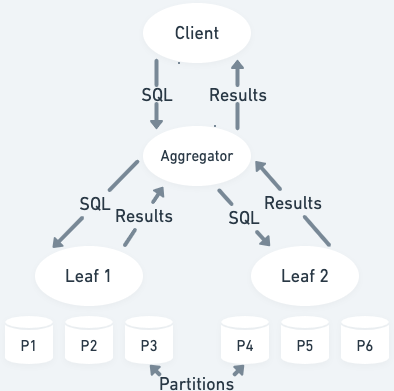
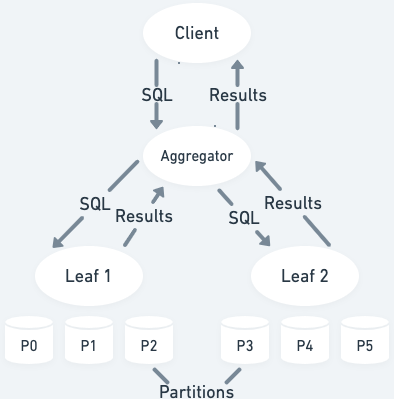
Continue shard key chapter

diff --git a/book.md b/book.md
@@ -1,4 +1,4 @@
-% The Little SingleStore Book
+% The Little SingleStore Book v7.1
 % Albert Vernon
 % November 2020
 
@@ -16,8 +16,8 @@ In this chapter, I introduce the SingleStore DB product, describe how it works, 
 
 Our customers love SingleStore DB becasue of the three S's, which are speed, scale, and SQL.
 
-* **Speed:** because of its distributed architecture, query compilation, and massive parallelism, SingleStore DB can give 10X or better performance at $\frac{1}{3}$ the cost compared to other database systems.
-* **Scale:** it is easy to add more nodes to increase storage or computational capacity to your SingleStore DB cluster with a few commands.
+* **Speed:** because of its distributed architecture, query compilation, and massive parallelism, SingleStore DB can give better performance at a fraction of the cost of other database systems.
+* **Scale:** with a few commands you can add nodes to your SingleStore DB cluster to increase storage or computational capacity.
 * **SQL:** SingleStore DB uses the query language that your database developers already know. It is also compatible with the MySQL wire protocol, so it is often possible to reuse applications, tools, and drivers.
 
 ## Aggregators and Leaves
@@ -45,7 +45,7 @@ A database partition is a container that holds a subset of the rows of the table
 When you create a database, you can specify how many partitions it has like this:
 
 ```sql
-create database mycompany partitions=8
+create database mycompany partitions = 6
 ```
 
 If you omit the `partitions` clause, then SingleStore DB creates your database with the default number of partitions. The number of database partitions has performance implications, especially for concurrency. I discuss this in the Query Tuning chapter.
@@ -61,7 +61,7 @@ When you create a table in SingleStore DB, you can specify one or more columns t
 
 As you insert data into a table, the aggregator calculates where to store each row using its shard key value. This calculation is repeatable, which means two rows with the same shard key value always go to the same partition, even if the rows belong to different tables. This has performance implications when joining tables, which I discuss in the Query Tuning chapter.
 
-If you specify a multi-column shard key, the aggregator concatenates the values of the shard key columns and then does the calculation. As an example, consider this scenario:
+If you specify a multi-column shard key, the aggregator concatenates the values of the shard key columns and then does the calculation. Consider this example:
 
 ```sql
 create table employees (
@@ -69,7 +69,7 @@ create table employees (
   last_name text,
   shard key (last_name, first_name));
 
-insert into employees values ('John', 'Smith);
+insert into employees values ('John', 'Smith');
 ```
 
 Because `employees` has a compound shard key, the shard key value for the row is `'SmithJohn'`. Notice that the order of the columns in the `shard key` clause is significant.
@@ -83,4 +83,75 @@ When you create a table, the following scenarios are possible:
 After you create a table, you cannot alter the shard key. If you change your mind, you have these options:
 
 * Back up the table, drop the table, then re-create it with a different shard key.
-* Create at new table with a different shard key then copy the data with a statement to this: `insert into _____ select * from _____`
+* Create a new table with a different shard key then copy the data with a statement like this: `insert into _____ select * from _____`
+
+Consider this example that makes tables named `foo` and `bar` and inserts sample data:
+
+```sql
+create database testdb partitions = 6;
+use testdb;
+
+create table foo (
+  a int,
+  b int,
+  c int,
+  shard key (b));
+
+create table bar (
+  x int,
+  y int,
+  z int,
+  shard key (x));
+
+insert into foo values (4, 5, 6);
+insert into bar values (5, 7, 8);
+```
+
+The shard key value of the row in `foo` is `5`, so partition #2 stores this row^[If you try this example in your cluster, you might get a different `partition_id()`.]:
+
+```console
+memsql [testdb]> select *, partition_id() from foo;
++------+------+------+----------------+
+| a    | b    | c    | partition_id() |
++------+------+------+----------------+
+|    4 |    5 |    6 |              2 |
++------+------+------+----------------+
+```
+
+Here is an illustration of what happened:
+
+![](shard-example-1)
+
+The shard key value of the row in `bar` is also `5`, so partition #2 stores this row in addition to the row in `foo`:
+
+```console
+memsql [testdb]> select *, partition_id() from bar;
++------+------+------+----------------+
+| x    | y    | z    | partition_id() |
++------+------+------+----------------+
+|    5 |    7 |    8 |              2 |
++------+------+------+----------------+
+```
+
+![](shard-example-2)
+
+Notice that the same partition stores both rows even though the rows are in different tables and the shard key columns have different names. The shard key value of a row is the only determinant of which partition stores the row.
+
+Lastly, if we insert into `foo` with a different shard key value, partition #4 stores this row:
+
+```console
+memsql [testdb]> insert into foo values (1, 10, 9);
+memsql [testdb]> select *, partition_id() from foo;
++------+------+------+----------------+
+| a    | b    | c    | partition_id() |
++------+------+------+----------------+
+|    4 |    5 |    6 |              2 |
+|    1 |   10 |    9 |              4 |
++------+------+------+----------------+
+```
+
+![](shard-example-3)
+
+Rows with different shard key values are usually in different partitions. This has performance implications when joining tables, which I discuss in the Query Tuning chapter.
+
+### Data Skew
